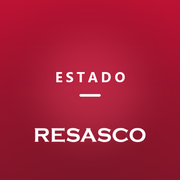
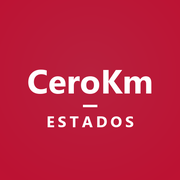
Nombre e icono CeroKm Estados

diff --git a/estado/index.html b/estado/index.html
@@ -3,13 +3,13 @@
 <head>
 <meta charset="utf-8">
 <meta name="viewport" content="width=device-width, initial-scale=1, maximum-scale=1, viewport-fit=cover">
-<title>Estado de autos</title>
-<link rel="apple-touch-icon" href="icono-180.png?v=4">
-<link rel="icon" type="image/png" href="favicon.png?v=4">
-<link rel="manifest" href="manifest.webmanifest">
+<title>CeroKm Estados</title>
+<link rel="apple-touch-icon" href="icono-180.png?v=5">
+<link rel="icon" type="image/png" href="favicon.png?v=5">
+<link rel="manifest" href="manifest.webmanifest?v=5">
 <meta name="apple-mobile-web-app-capable" content="yes">
 <meta name="mobile-web-app-capable" content="yes">
-<meta name="apple-mobile-web-app-title" content="Estado autos">
+<meta name="apple-mobile-web-app-title" content="CeroKm Estados">
 <meta name="apple-mobile-web-app-status-bar-style" content="black-translucent">
 <meta name="theme-color" content="#0e1014">
 <style>
@@ -126,9 +126,9 @@ function huellaTop(x) { var h = 5381; for (var i = 0; i < x.length; i++) h = ((h
 function mostrar(html) {
   if (document.readyState === 'loading') { document.addEventListener('DOMContentLoaded', function () { mostrar(html); }); return; }
   var extra = '<meta name="viewport" content="width=device-width, initial-scale=1, maximum-scale=1, viewport-fit=cover">' +
-    '<meta name="theme-color" content="#0e1014"><link rel="manifest" href="manifest.webmanifest">' +
-    '<link rel="apple-touch-icon" href="icono-180.png?v=4"><link rel="icon" type="image/png" href="favicon.png?v=4">' +
-    '<title>Estado de autos</title><script>window.__API=' + JSON.stringify(API) + ';window.__VER=' + JSON.stringify(huellaTop(html)) + ';window.__WRAP=' + JSON.stringify(WRAP_VER) + ';(' + puente.toString() + ')();<\/script>';
+    '<meta name="theme-color" content="#0e1014"><link rel="manifest" href="manifest.webmanifest?v=5">' +
+    '<link rel="apple-touch-icon" href="icono-180.png?v=5"><link rel="icon" type="image/png" href="favicon.png?v=5">' +
+    '<title>CeroKm Estados</title><script>window.__API=' + JSON.stringify(API) + ';window.__VER=' + JSON.stringify(huellaTop(html)) + ';window.__WRAP=' + JSON.stringify(WRAP_VER) + ';(' + puente.toString() + ')();<\/script>';
   html = html.replace(/<base[^>]*>/i, '').replace(/<head>/i, '<head>' + extra);
   document.open(); document.write(html); document.close();
 }
